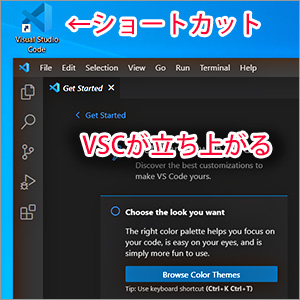
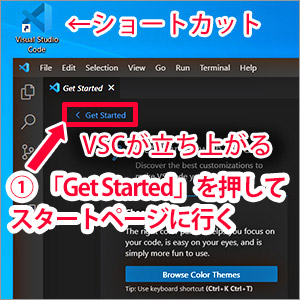
update the content

Changed region(s): [[0.0, 0.33, 0.99, 0.81]]

diff --git a/index.html b/index.html
@@ -27,11 +27,13 @@
 
         <article>
 
-            <p><span class="green">（1）</span><br><img src="images/cap1.jpg" alt="" width="500" height="440"><br>
+            <!-- <p><span class="green">（1）</span><br><img src="images/cap1.jpg" alt="" width="500" height="440"><br> -->
+                <span class="green">（1）</span><br><img src="images/pic_vsc_install_202307.jpg" alt="" width="500" height="400"><br>
                 Visual Studio Code – コード エディター | Microsoft Azure<br>
                 <a
                     href="https://azure.microsoft.com/ja-jp/products/visual-studio-code/">https://azure.microsoft.com/ja-jp/products/visual-studio-code/</a><br>
-                ↑のサイトに行き「今すぐダウンロード」ボタンを押す<br>
+                <s>↑のサイトに行き「今すぐダウンロード」ボタンを押す</s><br>
+                ↑のサイトに行き「Visual Studio Codeをダウンロードする」ボタンを押す<br>
                 &nbsp;<br>
             </p>
 
@@ -82,6 +84,7 @@
 
             <p><span class="green">（10）</span><br><img src="images/cap11.jpg" alt="" width="380" height="300"><br>
                 「インストール」を押す<br>
+                （インストールが完了するまでしばらく待つ）<br>
                 &nbsp;<br>
             </p>
 
@@ -100,17 +103,36 @@
                 &nbsp;<br>
             </p>
 
-            <p><span class="green">（13）</span><br><img src="images/cap15.jpg" alt="" width="300" height="300"><br>
-                適当なテキストファイル（.txt）を右クリックして<br>
-                「Codeで開く」のメニューがあればOK<br>
+            
+            <p><span class="green">（13）</span><br><img src="images/image14b.jpg" alt="" width="380" height="220"><br>
+                開始ページ（スタートページ、Welcomeページ）に移動するので<br>
+                起動時に表示するのチェックを外す<br>
                 &nbsp;<br>
             </p>
 
-            <p><span class="green">（14）</span><br><img src="images/cap16.jpg" alt="" width="300" height="300"><br>
-                適当なフォルダを右クリックして<br>
-                「Codeで開く」のメニューがあればOK<br>
+
+            
+            <p><span class="green">（14）</span><br><img src="images/image14c.jpg" alt="" width="410" height="270"><br>
+                開始ページ（スタートページ、Welcomeページ）自体も閉じておく<br>
+                （次回以降、VSCを起動すると表示されなくなっている）<br>
                 &nbsp;<br>
             </p>
+
+            <p><span class="green">（15）</span><br><img src="images/cap15.jpg" alt="" width="300" height="300"><br>
+                適当なテキストファイル（.txt）を右クリックして<br>
+                「Codeで開く」のメニューがあればOK<br>
+                <span class="red">※.htmlや.cssファイル単体で開きたい場合はこちらを使う</span><br>
+                &nbsp;<br>
+            </p>
+
+            <p><span class="green">（16）</span><br><img src="images/cap16.jpg" alt="" width="300" height="300"><br>
+                適当なフォルダを右クリックして<br>
+                「Codeで開く」のメニューがあればOK<br>
+                <span class="red">プロジェクトフォルダを丸ごと開きたい場合はこちらを使う</span><br>
+                &nbsp;<br>
+            </p>
+
+            &nbsp;<br>
 
         </article>
 

diff --git a/css/style.css b/css/style.css
@@ -1,5 +1,10 @@
 @charset "UTF-8";
 
+body {
+    background-color: #fcfcfe;
+    color: #222222;
+}
+
 .green {
     color: #388a17de;
     font-weight: bold;
